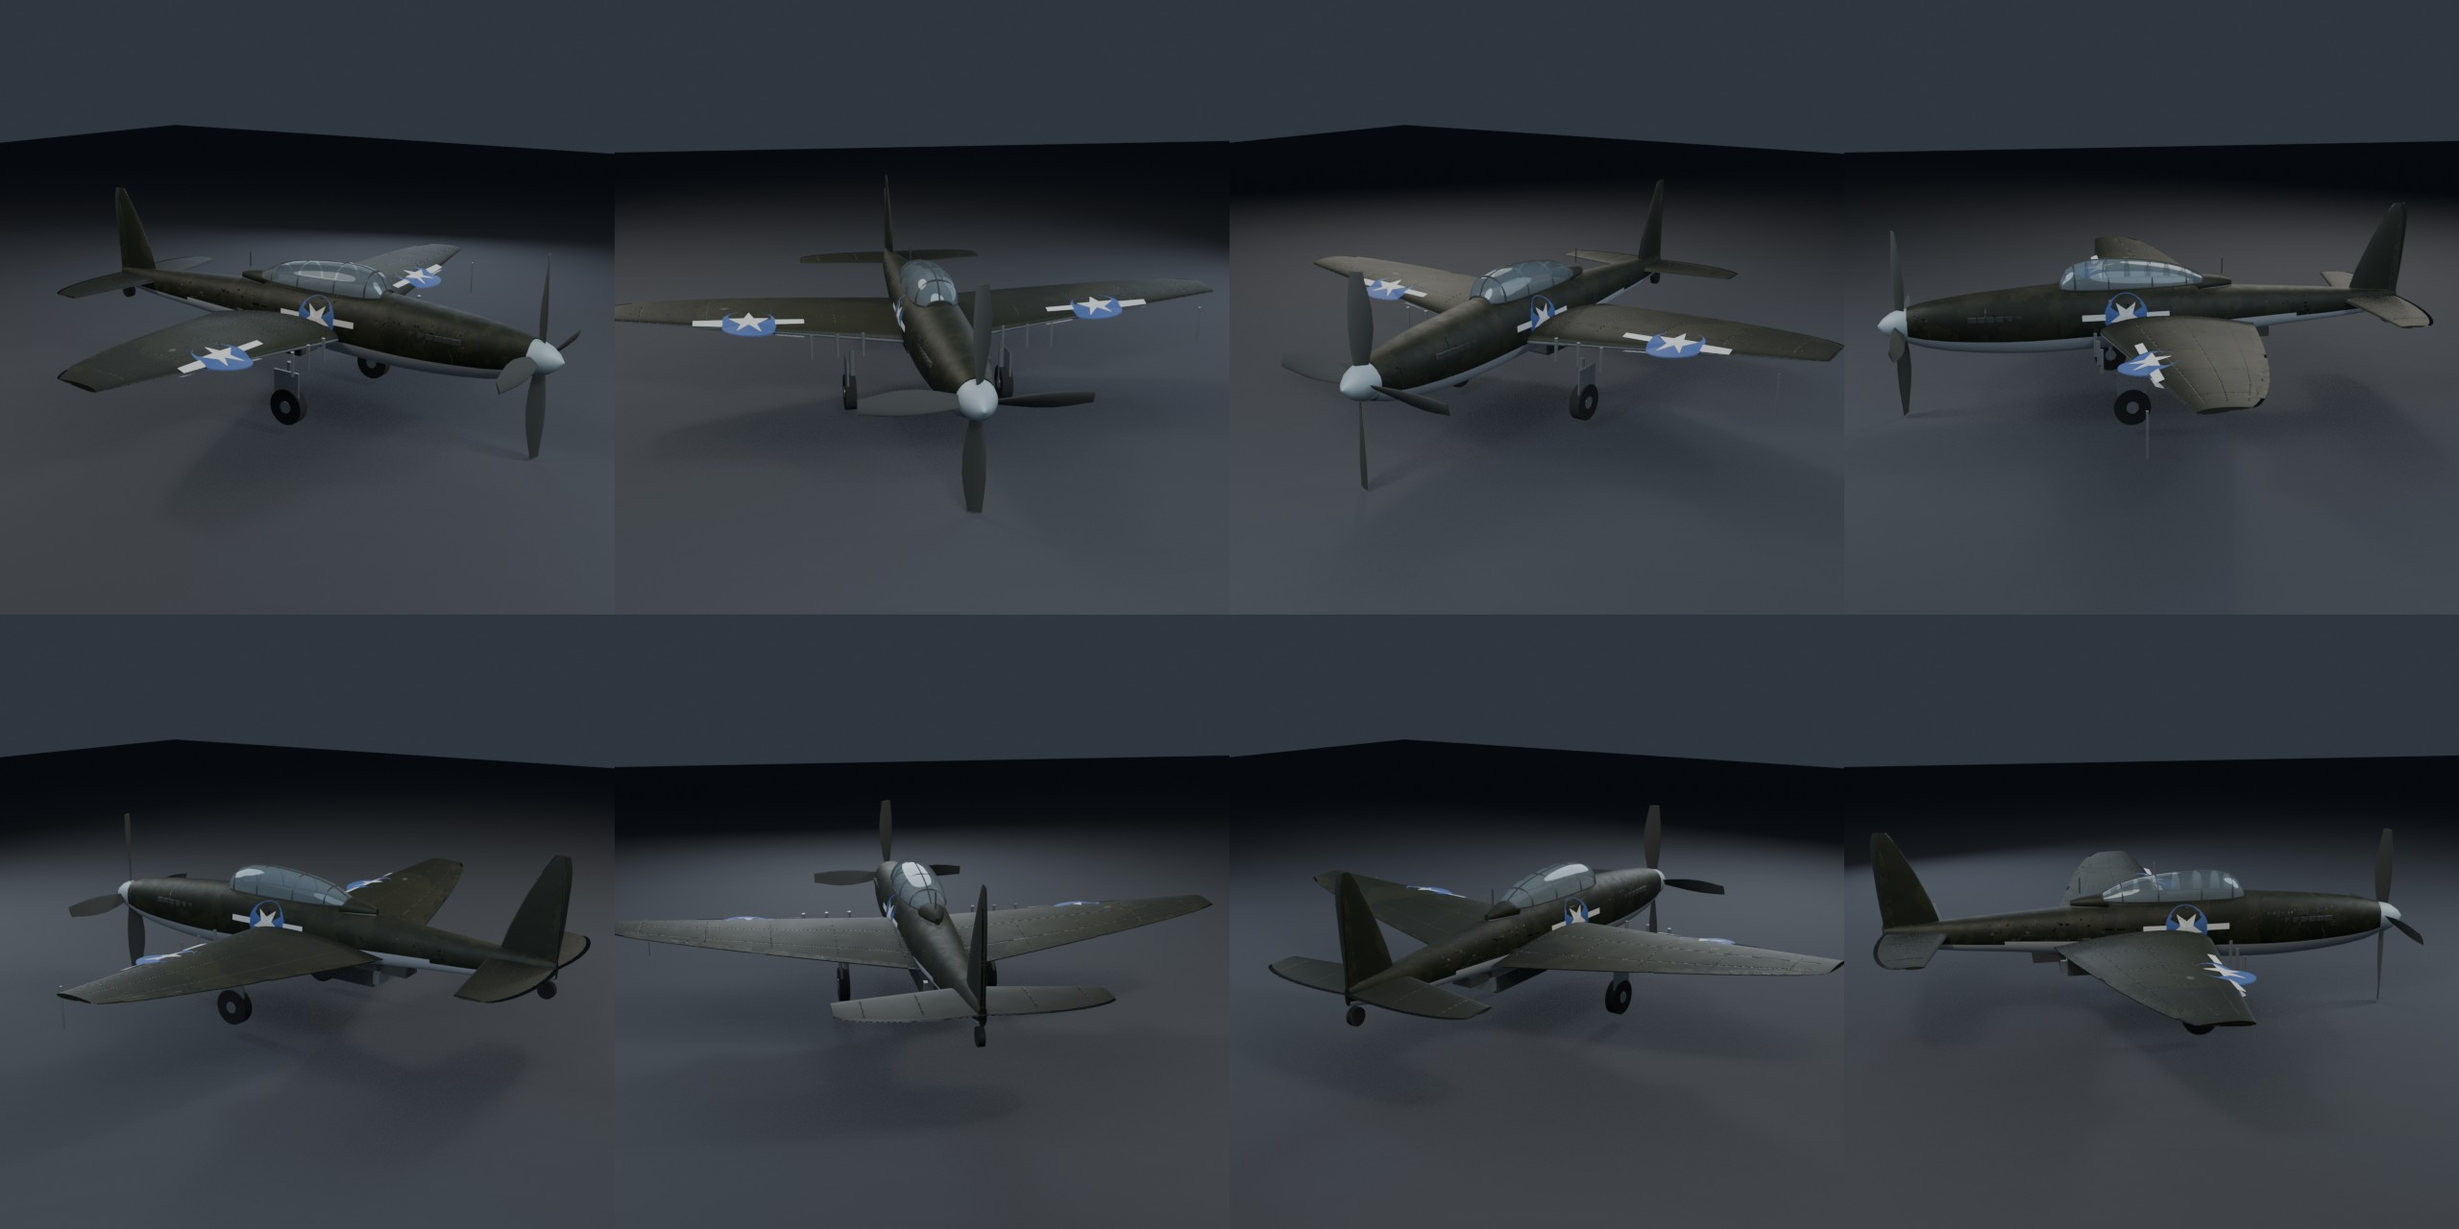
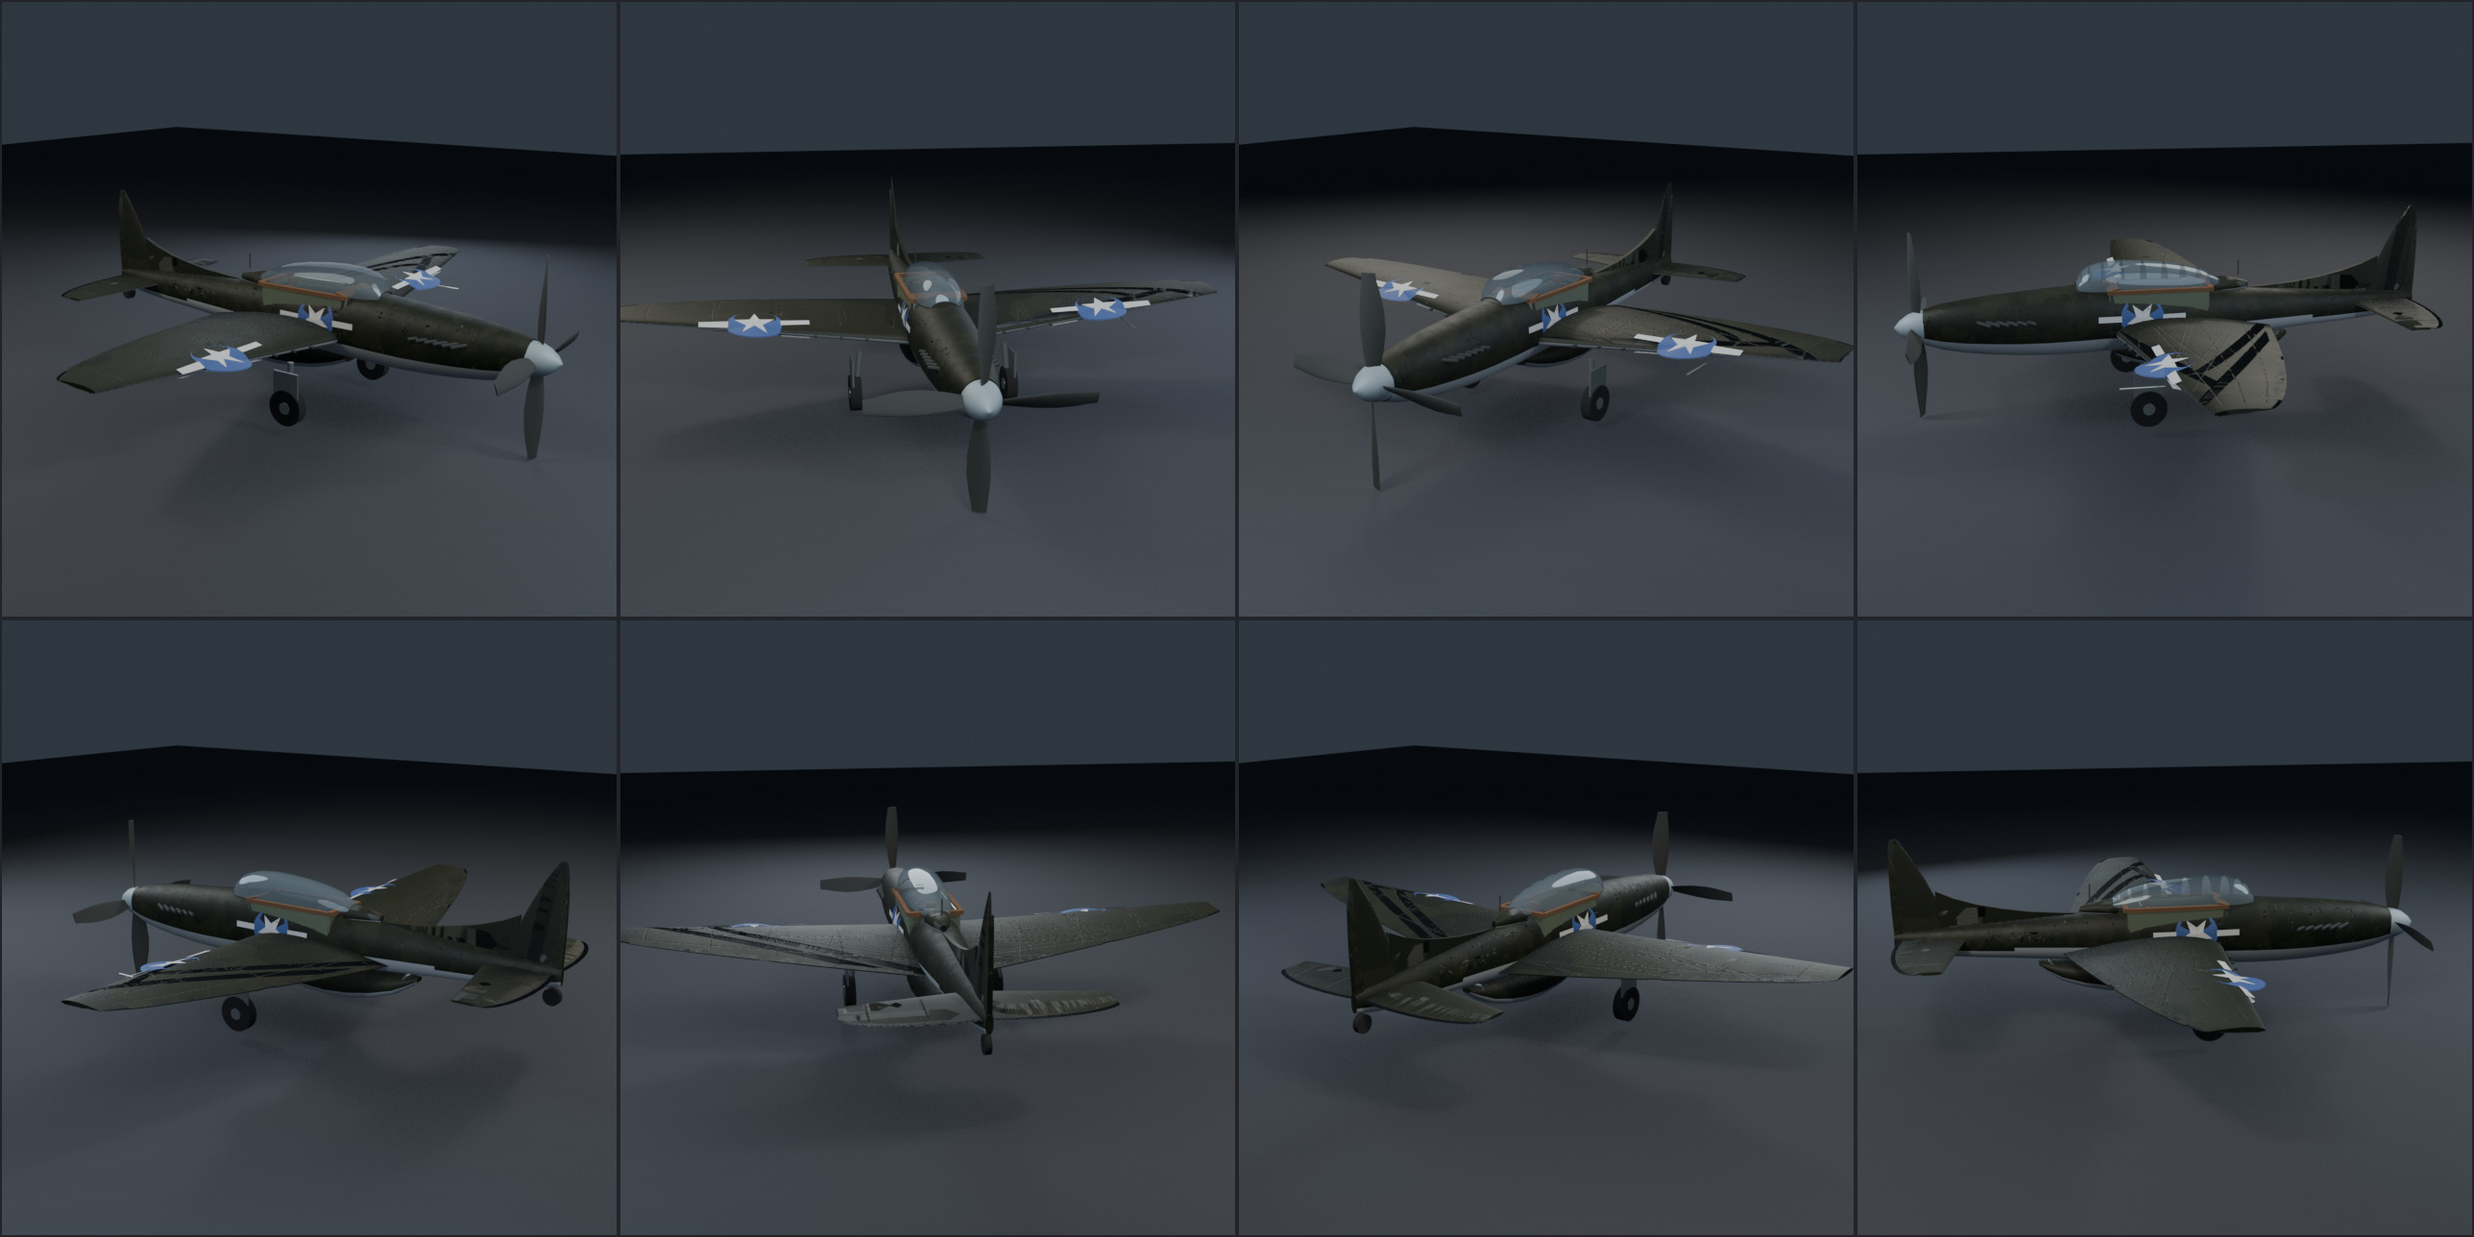
art: P-51D-25 hero pass — fillet, belly scoop, frameless bubble canopy
Tailplane/elevators shifted 0.13 m forward and fin chords trimmed ~0.13 m so length is 9.84 m (was 9.96 m; target 9.83 m, span unchanged 11.28 m); dorsal fin fillet added (D-15 onwards). Belly radiator bath rebuilt as a deep lofted scoop with dark forward intake and vertical exit flap, replacing the boxy radiator/oil-cooler. Exhausts are six angled-back stubs per side; canopy reduced to windscreen bow + rear hoop + thin sill rails; wing-gun ports are flush LE stubs (were 0.42 m barrels); pitot re-hung under the port wing. Validator OK, no missing contract nodes, 14,006 tris (budget 22k); LOD1/LOD2 rebuilt; takeoff test 832 m; sheets re-rendered; reference intake logged in docs/art/aircraft-references.md.

diff --git a/tools/blender/build_p51d.py b/tools/blender/build_p51d.py
@@ -73,10 +73,12 @@ WING_ROOT_THICKNESS = 0.15
 WING_TIP_THICKNESS = 0.10
 WING_ROOT_CAMBER = 0.02
 
-TAIL_ROOT_LE = -3.95
+TAIL_SHIFT = 0.13  # shift tailplane/elevators forward; the elevator TE overhung
+                    # the rudder/fuselage tip making the model 9.96 m, target 9.83 m
+TAIL_ROOT_LE = -3.95 + TAIL_SHIFT
 TAIL_ROOT_CHORD = 1.20
 TAIL_TIP_CHORD = 0.55
-TAIL_TIP_LE = -4.30
+TAIL_TIP_LE = -4.30 + TAIL_SHIFT
 TAIL_Z = 0.12
 TAIL_SPAN_HALF = 2.05
 
@@ -271,19 +273,32 @@ def build_tail(exterior, mat):
         obj.location = hinge
 
 
+def build_dorsal_fillet(exterior, mat):
+    """Dorsal fin fillet: the long shallow wedge ahead of the fin (D-15 on)."""
+    outline = [
+        (-1.55, 0.475), (-2.10, 0.50), (-2.70, 0.55), (-3.20, 0.63),
+        (-3.65, 0.73), (-4.05, 0.86), (-4.35, 1.00),
+        (-4.35, 0.34), (-4.05, 0.345), (-3.65, 0.36), (-3.20, 0.385),
+        (-2.70, 0.42), (-2.10, 0.455), (-1.55, 0.465),
+    ]
+    extrude_outline("DorsalFillet", outline, 0.075, exterior, mat)
+
+
 def build_fin(exterior, mat):
     # Fin as a lofted symmetric airfoil: chord along Y, thickness along X.
     fin_stations = [
         # (z, leading-edge y, chord, thickness ratio)
-        (0.10, -4.10, 1.00, 0.10),
-        (0.35, -4.15, 0.98, 0.10),
-        (0.65, -4.25, 0.92, 0.10),
-        (0.95, -4.38, 0.82, 0.095),
-        (1.25, -4.52, 0.70, 0.09),
-        (1.50, -4.66, 0.58, 0.085),
-        (1.70, -4.78, 0.46, 0.08),
-        (1.85, -4.88, 0.34, 0.07),
-        (1.95, -4.95, 0.24, 0.06),
+        # Chords trimmed ~0.13 m vs the blockout so the fin trailing edge
+        # does not overhang the rudder/fuselage tip (length target 9.83 m).
+        (0.10, -4.10, 0.87, 0.10),
+        (0.35, -4.15, 0.85, 0.10),
+        (0.65, -4.25, 0.79, 0.10),
+        (0.95, -4.38, 0.69, 0.095),
+        (1.25, -4.52, 0.57, 0.09),
+        (1.50, -4.66, 0.45, 0.085),
+        (1.70, -4.78, 0.33, 0.08),
+        (1.85, -4.88, 0.21, 0.07),
+        (1.95, -4.95, 0.11, 0.06),
     ]
     rings = []
     for z, le_y, chord, thickness in fin_stations:
@@ -497,9 +512,9 @@ def build_canopy(exterior, glass, frame, airframe):
         split_angle_deg=60.0,
     )
 
-    # Arch frames: windscreen, hood front, mid, rear.
-    for index, radius in ((0, 0.020), (2, 0.023), (4, 0.018), (6, 0.018),
-                          (8, 0.018), (10, 0.022)):
+    # Arch frames: only the windscreen bow and the rear hoop where the bubble
+    # meets the fuselage spine. The D-model bubble is nearly frameless.
+    for index, radius in ((0, 0.016), (10, 0.018)):
         y, width, top = stations[index]
         points = [
             (width * math.cos(math.pi * i / 14.0), y,
@@ -508,13 +523,11 @@ def build_canopy(exterior, glass, frame, airframe):
         ]
         tube_from_points(f"CanopyFrame{index}", points, radius, exterior, frame)
 
-    # Longitudinal sill rails and the top spine.
+    # Longitudinal sill rails only — no spine strip over the bubble.
     for side in (-1.0, 1.0):
         points = [(side * width, y, 0.60) for y, width, _ in stations]
-        tube_from_points(f"CanopyRail{'L' if side < 0 else 'R'}", points, 0.016,
+        tube_from_points(f"CanopyRail{'L' if side < 0 else 'R'}", points, 0.012,
                          exterior, frame)
-    spine_points = [(0.0, y, top) for y, _, top in stations]
-    tube_from_points("CanopySpine", spine_points, 0.015, exterior, frame)
 
     # Headrest fairing behind the hood.
     fairing_stations = [
@@ -848,34 +861,65 @@ def build_panel_lines(exterior, mats):
 def build_details(exterior, mats):
     metal = mats["metal"]
     dark = mats["dark"]
+    intake = mats["intake"]
 
-    # Exhaust stacks: six per side on the long Merlin nose.
+    # Exhaust stacks: six stubs per side on the Merlin nose, angled back and
+    # slightly out, as on the D-model.
     for side in (-1.0, 1.0):
         for i in range(6):
-            y = 3.05 - i * 0.16
-            box(f"Exhaust{side:+.0f}_{i}",
-                (side * 0.455, y, 0.16), (0.075, 0.14, 0.085),
-                exterior, dark, rotation=(0.0, 0.0, math.radians(side * 12.0)))
-
-    # Belly radiator scoop and oil cooler.
-    box("Radiator", (0.0, -1.05, -0.62), (0.58, 1.65, 0.30), exterior, dark)
-    box("RadiatorFace", (0.0, -0.22, -0.62), (0.50, 0.04, 0.24), exterior, metal)
-    box("RadiatorFlap", (0.0, -1.85, -0.60), (0.54, 0.30, 0.24), exterior, metal)
-    box("OilCooler", (0.0, -2.20, -0.42), (0.40, 0.60, 0.18), exterior, dark)
-
-    # Six .50 cal barrels in the wing leading edge.
-    for side in (-1.0, 1.0):
-        for x in (1.25, 1.70, 2.15):
+            y = 3.15 - i * 0.16
             cylinder_between(
-                f"Gun{side:+.0f}_{x:.2f}",
-                (side * x, 0.74, -0.16),
-                (side * x, 0.74 + 0.42, -0.16),
-                0.030, exterior, metal, vertices=10,
+                f"Exhaust{side:+.0f}_{i}",
+                (side * 0.42, y + 0.10, 0.15),
+                (side * 0.55, y - 0.13, 0.10),
+                0.034, exterior, dark, vertices=10,
             )
 
-    # Pitot under the left wingtip and the antenna mast.
-    cylinder_between("Pitot", (-5.10, 0.35, -0.22), (-5.10, 1.05, -0.22),
-                     0.018, exterior, metal, vertices=8)
+    # Belly radiator bath — the P-51 signature. A deep duct under the rear
+    # fuselage: forward-facing intake, sloped underside, vertical exit flap.
+    bath_rings = [
+        (0.75, 0.22, -0.48, -0.70),
+        (0.45, 0.31, -0.51, -0.83),
+        (0.10, 0.38, -0.53, -0.93),
+        (-0.35, 0.43, -0.53, -1.00),
+        (-0.85, 0.44, -0.51, -1.03),
+        (-1.30, 0.42, -0.48, -1.00),
+        (-1.75, 0.37, -0.45, -0.91),
+        (-2.15, 0.30, -0.43, -0.77),
+        (-2.42, 0.20, -0.41, -0.60),
+        (-2.56, 0.09, -0.40, -0.49),
+    ]
+    loft("RadiatorBath",
+         [superellipse(y, w, z_top, z_bot, count=24, exponent=2.6)
+          for y, w, z_top, z_bot in bath_rings],
+         exterior, mats["airframe"], cap_start=False, cap_end=True,
+         split_angle_deg=40.0)
+    # Dark intake mouth at the front of the bath.
+    disc_mesh("RadiatorIntake", (0.0, 0.745, -0.59),
+              superellipse(0.745, 0.235, -0.465, -0.715, count=24, exponent=2.6),
+              exterior, intake)
+    # Vertical exit door at the rear underside of the bath, hinged at the top.
+    box("RadiatorFlap", (0.0, -2.28, -0.50), (0.36, 0.030, 0.34),
+        exterior, metal, rotation=(math.radians(38.0), 0.0, 0.0))
+
+    # Six .50 cal gun ports in the wing leading edges (three per wing), flush.
+    for side in (-1.0, 1.0):
+        for x in (1.25, 1.70, 2.15):
+            t = abs(x) / SPAN_HALF
+            _, chord, le_y, z_center = wing_planform(t)
+            z = z_center - 0.015
+            cylinder_between(
+                f"Gun{side:+.0f}_{x:.2f}",
+                (side * x, le_y - 0.015, z),
+                (side * x, le_y + 0.075, z),
+                0.026, exterior, dark, vertices=10,
+            )
+
+    # Pitot under the left wing, mounted on a short mast below the wing.
+    cylinder_between("PitotMast", (-3.60, 0.42, 0.10), (-3.60, 0.42, -0.06),
+                     0.016, exterior, metal, vertices=8)
+    cylinder_between("Pitot", (-3.60, 0.42, -0.06), (-3.60, 1.12, -0.06),
+                     0.014, exterior, metal, vertices=8)
     cylinder_between("AntennaMast", (0.0, -1.60, 0.72), (0.0, -1.60, 1.02),
                      0.014, exterior, dark, vertices=8)
 
@@ -970,6 +1014,8 @@ def main():
         "metal": material("metal", (0.46, 0.48, 0.46), 0.32, 0.75),
         "spinner": material("spinner", (0.38, 0.46, 0.48), 0.55, 0.10),
         "dark": material("dark", (0.055, 0.060, 0.055), 0.78, 0.15),
+        "intake": material("intake", (0.020, 0.020, 0.020), 0.95, 0.0,
+                           double_sided=True),
         "tyre": material("tyre", (0.025, 0.025, 0.025), 0.95, 0.0),
         "glass": material("glass", (0.28, 0.36, 0.40), 0.05, 0.25, alpha=0.55,
                           double_sided=True),
@@ -996,6 +1042,7 @@ def main():
     build_wing_panel("FlapR", 0.10, 0.52, exterior, mats["airframe"])
     build_tail(exterior, mats["airframe"])
     build_fin(exterior, mats["airframe"])
+    build_dorsal_fillet(exterior, mats["airframe"])
     build_gear(exterior, mats["metal"], mats["tyre"])
     build_propeller(exterior, mats["spinner"], mats["dark"])
     build_canopy(exterior, mats["glass"], mats["dark"], mats["airframe"])

diff --git a/docs/art/aircraft-references.md b/docs/art/aircraft-references.md
@@ -249,11 +249,47 @@ For every new image or drawing:
 | Wikimedia Commons, `Category:North American P-51 Mustang` — https://commons.wikimedia.org/wiki/Category:North_American_P-51_Mustang | walkaround reference for later detail passes | varies per file | no | reference-only; no image was used for this blockout |
 | Public dimensions (span 11.28 m, length 9.83 m, wing area 21.83 m²) | blockout proportions | public data | no | dimension source only |
 
+Hero pass intake (2026-11-28) — used for the P-51D geometry rework (tailplane/elevator
+length trim, dorsal fillet, belly radiator bath, exhausts, bubble canopy framing,
+gun ports):
+
+| File (reference-photos/p51d-25/, never committed) | Use | Licence |
+| --- | --- | --- |
+| `London_RAF_Museum_Hendon_North_American_P-51D_Mustang_01.jpg` (Ad Meskens, Wikimedia Commons) | side profile: nose/cowl line, exhaust row, fin and fillet, scoop, spine | CC BY-SA 4.0 |
+| `London_RAF_Museum_Hendon_North_American_P-51D_Mustang_03.jpg` (Ad Meskens, Wikimedia Commons) | nose 3/4: exhaust stub angle, cowl fasteners, canopy frame | CC BY-SA 4.0 |
+| `London_RAF_Museum_Hendon_North_American_P-51D_Mustang_06.jpg` (Ad Meskens, Wikimedia Commons) | head-on 3/4: stub protrusion, intake, spinner backplate, gear stance | CC BY-SA 4.0 |
+| `London_RAF_Museum_Hendon_North_American_P-51D_Mustang_07.jpg` (Ad Meskens, Wikimedia Commons) | cowl panel/fastener detail, exhaust surround | CC BY-SA 4.0 |
+| `Duxford_Imperial_War_Museum_North_American_P-51D_Mustang_-_geograph.org.uk_-_4582855.jpg` (Michael Garlick, geograph) | side/rear 3/4: tail fillet, scoop, tailplane vs rudder TE | CC BY-SA 2.0 |
+| `Duxford_Imperial_War_Museum_North_American_P-51D_Mustang_-_geograph.org.uk_-_4582902.jpg` (Michael Garlick, geograph) | port side: canopy frame, scoop, fin | CC BY-SA 2.0 |
+| `Duxford_Imperial_War_Museum_North_American_P-51D_Mustang_-_geograph.org.uk_-_4582905.jpg` (Michael Garlick, geograph) | side/front: stubs, fillet, scoop depth | CC BY-SA 2.0 |
+| `Barksdale_Global_Power_Museum_September_2015_06_North_American_P-51D_Mustang_.jpg` (Michael Barera, Wikimedia Commons) | port side, gear down: scoop profile, fillet, fin top | CC BY-SA 4.0 |
+| `Barksdale_Global_Power_Museum_September_2015_07_North_American_P-51D_Mustang_.jpg` (Michael Barera, Wikimedia Commons) | front quarter: stub row, cowl cheeks, spinner | CC BY-SA 4.0 |
+| `At_American_Airpower_Museum_2024_022.jpg` (Mike Peel, Wikimedia Commons) | front quarter, nose-high: exhaust stub exit angle, bath outline | CC BY-SA 4.0 |
+| `At_American_Airpower_Museum_2024_023.jpg` (Mike Peel, Wikimedia Commons) | front quarter, other side: symmetric stub check | CC BY-SA 4.0 |
+| `J_26_North_American_P-51D_Mustang.jpg` (David Brohede, Wikimedia Commons) | cockpit 360: canopy framing, sill height (cockpit unchanged this pass) | CC BY-SA 4.0 |
+
+What was measured/matched against these photos: tailplane/elevator trailing edge moved
+0.13 m forward and fin chords trimmed ~0.13 m so the length is 9.84 m (was 9.96 m;
+9.83 m is the authoritative figure, within 0.1 %); dorsal fin fillet added (D-15
+onwards) rising from the spine behind the headrest into the fin leading edge; belly
+radiator bath rebuilt as a deep lofted scoop (forward-facing dark intake, vertical
+exit flap at the rear underside) replacing the boxy block and separate oil-cooler box;
+six exhaust stubs per side as short cylinders angled back ~20° and slightly outboard;
+canopy reduced to the windscreen bow, a rear hoop and thin sill rails (no spine, no
+mid-hood bows); gun ports as flush stubs in the wing leading edge (were 0.42 m barrels);
+pitot re-hung on a mast under the port wing (was floating below the tip).
+
+Remaining accepted deviations: the canopy frame spacing and the fillet are stylised
+(flat-sided wedge, constant 0.075 m thickness); exhaust stubs are straight (no fishtail
+collectors); the radiator flap is static; markings remain generic period-correct; the
+fin airfoil is still the blockout NACA section.
+
 Shape notes: long Merlin nose, teardrop bubble canopy, laminar-flow wing with a nearly
 straight leading edge, belly radiator/oil-cooler scoop, four-blade Hamilton Standard
 prop, wide-track main gear, USAAF olive-drab upper / neutral-grey lower with
 star-and-bar insignia. The blockout measured span 11.28 m, length 9.96 m (0.13 m over
-the 9.83 m authoritative figure) and height 3.67 m with the prop disc. The model-only
+the 9.83 m authoritative figure) and height 3.67 m with the prop disc; the hero pass
+(2026-11-28) trims the length to 9.84 m — see the intake section above. The model-only
 silhouette is `docs/media/aircraft/p51d-25-silhouette.jpg`; the public-domain NAA 3-view
 is registered in the review record, and its dimensioned callouts need a manual crop
 before a full side overlay can be composed.

diff --git a/docs/specs/0003-hero-aircraft-pass.md b/docs/specs/0003-hero-aircraft-pass.md
@@ -71,8 +71,9 @@ summarised in [`../art/aircraft-references.md`](../art/aircraft-references.md).
        Bola gondola with gun trough, nacelle-housed main gear, tailplane dihedral,
        rounded fin top, rear-cockpit antenna mast; re-bake; review sheet.
        *(done 2026-11-28, see changelog)*
-5. [ ] **P-51D-25** hero pass: bubble canopy, belly scoop, Merlin nose exhausts,
+5. [x] **P-51D-25** hero pass: bubble canopy, belly scoop, Merlin nose exhausts,
        fin fillet, radiator bath; correct the +0.13 m length; re-bake; review sheet.
+       *(done 2026-11-28, see changelog)*
 6. [ ] Fleet consistency: regenerate LODs/imposters, run the full verification suite,
        update README/spec/register, close the spec.
 
@@ -104,7 +105,7 @@ remaining accepted deviations.
 
 ## Remaining work
 
-Steps 5–6.
+Step 6.
 
 ## Changelog
 
@@ -143,3 +144,13 @@ Steps 5–6.
   Span 20.10 m / length 14.36 m exact, 11,500 tris (budget 22k), validator OK, no
   missing contract nodes; LOD1/LOD2 rebuilt; sheets re-rendered
   (`docs/media/aircraft/ju88-a4.jpg`, `ju88-a4-silhouette.jpg`, height 3.37 m).
+- 2026-11-28 — P-51D-25 hero pass: tailplane/elevators shifted 0.13 m forward and fin
+  chords trimmed ~0.13 m so the length is 9.84 m (was 9.96 m; target 9.83 m, span
+  unchanged at 11.28 m); dorsal fin fillet added; belly radiator bath rebuilt as a
+  deep lofted scoop (dark forward intake, vertical exit flap) replacing the boxy
+  radiator/oil-cooler; exhausts as six angled-back stubs per side; canopy reduced to
+  windscreen bow + rear hoop + thin sill rails (frameless bubble); gun ports as flush
+  leading-edge stubs (were 0.42 m barrels); pitot re-hung under the port wing on a
+  mast. 14,006 tris; validator OK, no missing contract nodes; LOD1/LOD2 rebuilt;
+  reference-photo intake logged in docs/art/aircraft-references.md; sheets re-rendered
+  (`docs/media/aircraft/p51d-25.jpg`, `p51d-25-silhouette.jpg`).
